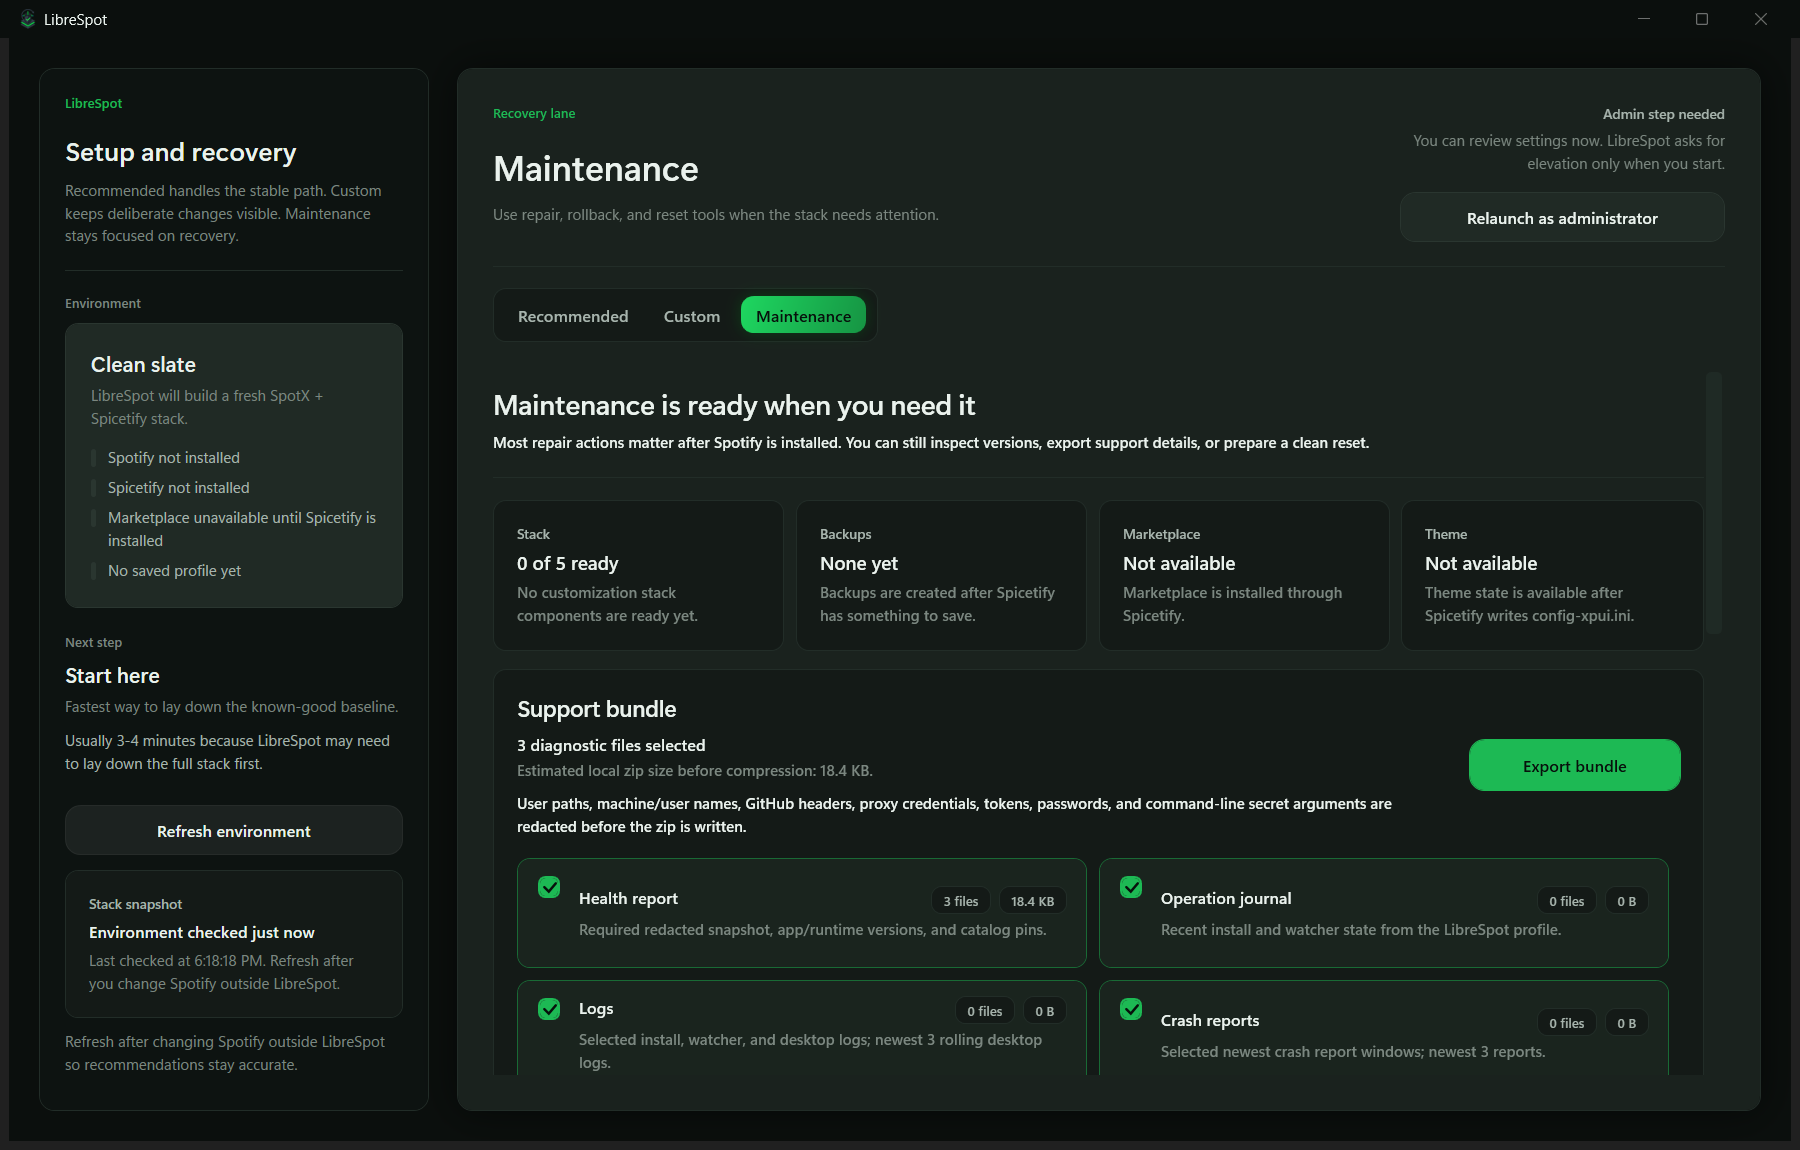
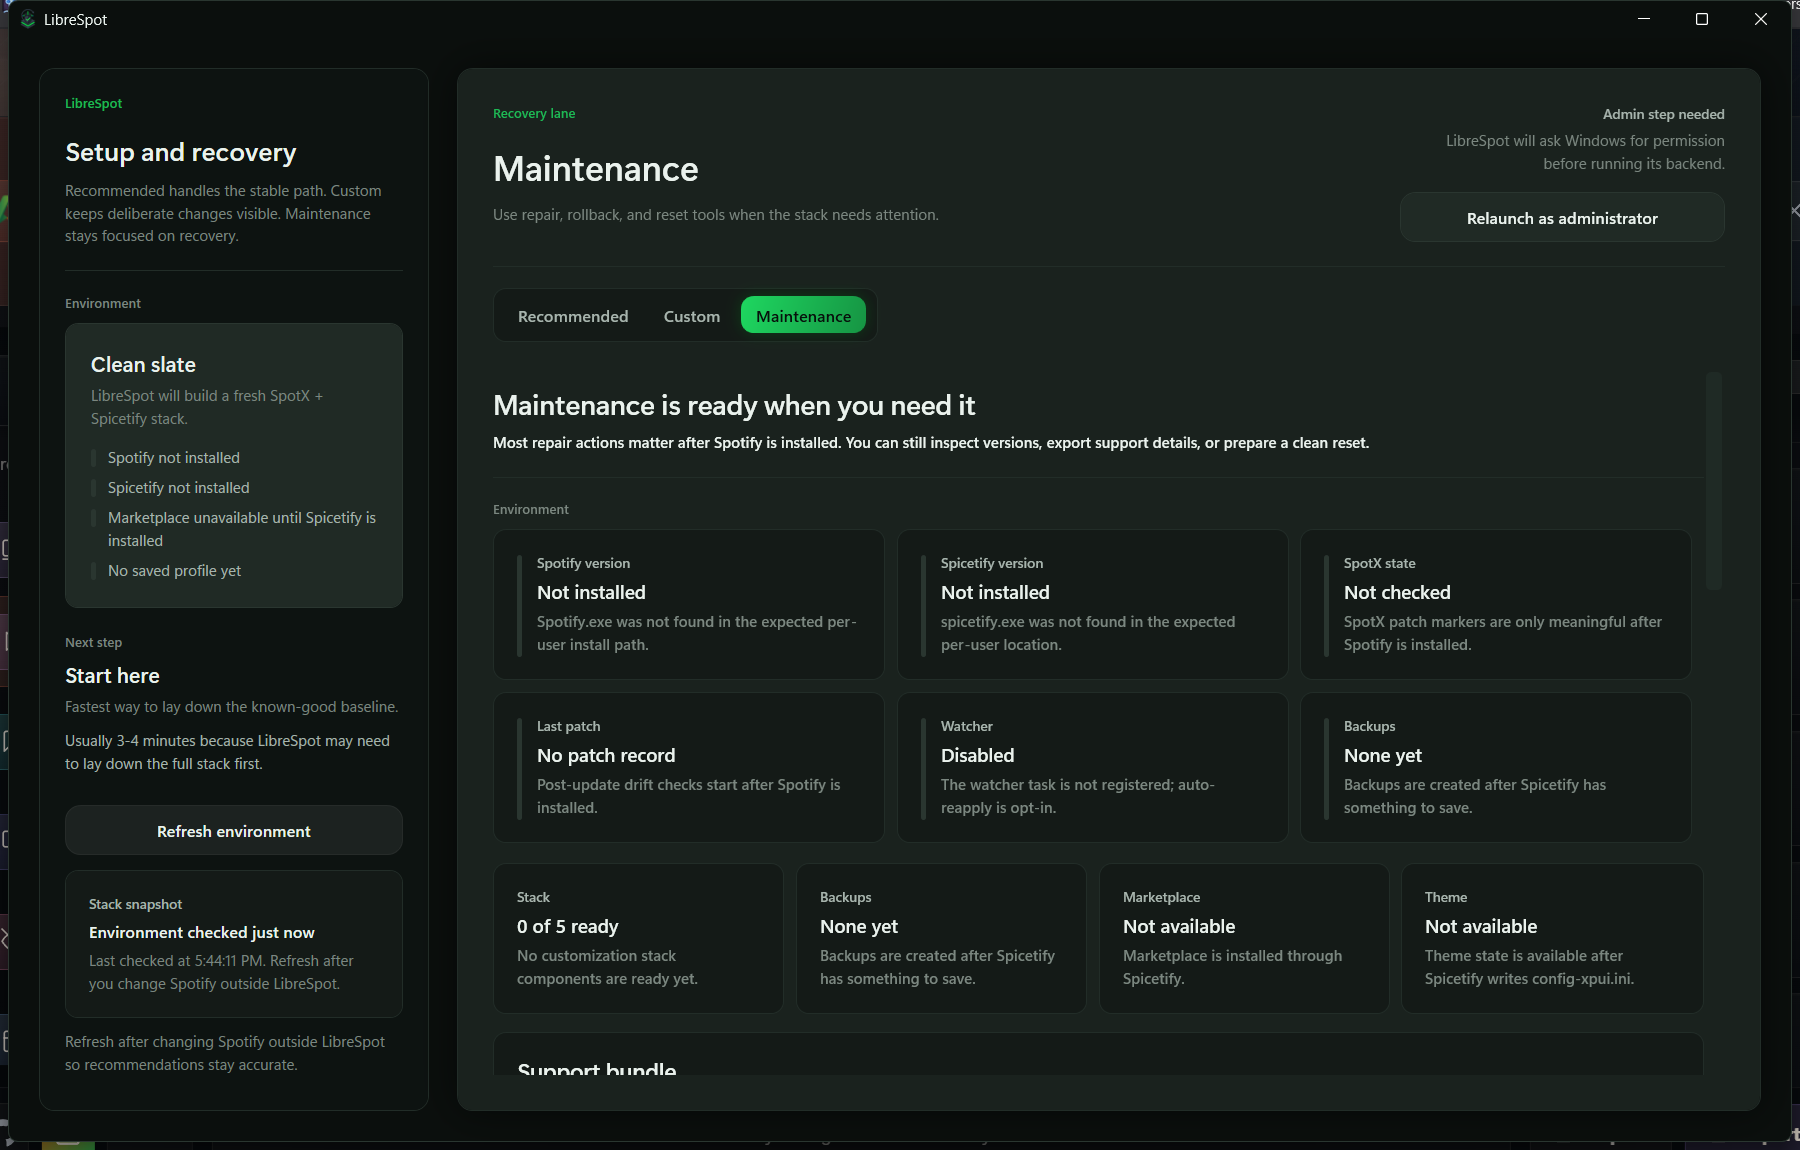
feat: add wpf status dashboard

diff --git a/src/LibreSpot.Desktop/MainWindow.xaml b/src/LibreSpot.Desktop/MainWindow.xaml
@@ -463,6 +463,67 @@
       </Border>
     </DataTemplate>
 
+    <DataTemplate DataType="{x:Type viewModels:StatusDashboardItemViewModel}" x:Key="StatusDashboardItemTemplate">
+      <Border Style="{StaticResource SubtleCardStyle}"
+              Margin="0,0,10,10"
+              AutomationProperties.Name="{Binding Label}"
+              AutomationProperties.HelpText="{Binding Detail}">
+        <Grid>
+          <Grid.ColumnDefinitions>
+            <ColumnDefinition Width="Auto" />
+            <ColumnDefinition Width="*" />
+          </Grid.ColumnDefinitions>
+          <Border Width="4"
+                  CornerRadius="2"
+                  Margin="0,2,12,0"
+                  VerticalAlignment="Stretch">
+            <Border.Style>
+              <Style TargetType="Border">
+                <Setter Property="Background" Value="{StaticResource StrokeBrush}" />
+                <Style.Triggers>
+                  <DataTrigger Binding="{Binding Tone}" Value="{x:Static models:HealthSeverity.Ready}">
+                    <Setter Property="Background" Value="{StaticResource AccentBrush}" />
+                  </DataTrigger>
+                  <DataTrigger Binding="{Binding Tone}" Value="{x:Static models:HealthSeverity.Warning}">
+                    <Setter Property="Background" Value="{StaticResource WarningBrush}" />
+                  </DataTrigger>
+                  <DataTrigger Binding="{Binding Tone}" Value="{x:Static models:HealthSeverity.Critical}">
+                    <Setter Property="Background" Value="{StaticResource DangerBrush}" />
+                  </DataTrigger>
+                </Style.Triggers>
+              </Style>
+            </Border.Style>
+          </Border>
+          <StackPanel Grid.Column="1">
+            <TextBlock Text="{Binding Label}"
+                       Style="{StaticResource LabelTextStyle}" />
+            <TextBlock Text="{Binding Value}"
+                       FontWeight="SemiBold"
+                       FontSize="15"
+                       Margin="0,6,0,0"
+                       TextWrapping="Wrap">
+              <TextBlock.Style>
+                <Style TargetType="TextBlock">
+                  <Setter Property="Foreground" Value="{StaticResource TextBrush}" />
+                  <Style.Triggers>
+                    <DataTrigger Binding="{Binding Tone}" Value="{x:Static models:HealthSeverity.Warning}">
+                      <Setter Property="Foreground" Value="{StaticResource WarningBrush}" />
+                    </DataTrigger>
+                    <DataTrigger Binding="{Binding Tone}" Value="{x:Static models:HealthSeverity.Critical}">
+                      <Setter Property="Foreground" Value="{StaticResource DangerBrush}" />
+                    </DataTrigger>
+                  </Style.Triggers>
+                </Style>
+              </TextBlock.Style>
+            </TextBlock>
+            <TextBlock Text="{Binding Detail}"
+                       Style="{StaticResource CaptionTextStyle}"
+                       Margin="0,6,0,0" />
+          </StackPanel>
+        </Grid>
+      </Border>
+    </DataTemplate>
+
     <!--
       Overlay card style: fade + subtle scale-in when the bound IsVisible flag
       transitions False→True. DataTrigger EnterActions run on every transition,
@@ -1574,6 +1635,20 @@
                   <Border Height="1"
                           Background="{StaticResource StrokeSoftBrush}"
                           Margin="0,18,0,18" />
+
+                  <TextBlock Text="{x:Static props:Strings.EnvironmentLabel}"
+                             Style="{StaticResource SectionEyebrowTextStyle}"
+                             Margin="0,0,0,10" />
+                  <ItemsControl ItemsSource="{Binding StatusDashboardItems}"
+                                ItemTemplate="{StaticResource StatusDashboardItemTemplate}"
+                                AutomationProperties.Name="{x:Static props:Strings.EnvironmentLabel}"
+                                Margin="0,0,0,6">
+                    <ItemsControl.ItemsPanel>
+                      <ItemsPanelTemplate>
+                        <UniformGrid Columns="3" />
+                      </ItemsPanelTemplate>
+                    </ItemsControl.ItemsPanel>
+                  </ItemsControl>
 
                   <UniformGrid Columns="4"
                                Margin="0,0,0,14">

diff --git a/src/LibreSpot.Desktop/ViewModels/MainViewModel.cs b/src/LibreSpot.Desktop/ViewModels/MainViewModel.cs
@@ -215,6 +215,22 @@ public sealed class SelectionInsightViewModel
     public string Detail { get; }
 }
 
+public sealed class StatusDashboardItemViewModel
+{
+    public StatusDashboardItemViewModel(string label, string value, string detail, string tone)
+    {
+        Label = label;
+        Value = string.IsNullOrWhiteSpace(value) ? Strings.DashboardUnknownValue : value;
+        Detail = detail;
+        Tone = tone;
+    }
+
+    public string Label { get; }
+    public string Value { get; }
+    public string Detail { get; }
+    public string Tone { get; }
+}
+
 public sealed class MainViewModel : ObservableObject, IDisposable
 {
     // Cap the live log so a very chatty backend run can't pin UI memory or make
@@ -445,6 +461,31 @@ public sealed class MainViewModel : ObservableObject, IDisposable
     public bool HasInfoHealthIssues => HealthReport.HasInfoIssues;
     public bool HasAnyHealthIssues => HealthReport.HasIssues;
     public string HealthIssueSummary => HealthReport.IssueSummary;
+
+    public IReadOnlyList<StatusDashboardItemViewModel> StatusDashboardItems =>
+    [
+        BuildDashboardItem(
+            Strings.DashboardSpotifyVersionLabel,
+            HealthComponent("spotify"),
+            component => FirstNonEmpty(component.DetectedVersion, component.Status)),
+        BuildDashboardItem(
+            Strings.DashboardSpicetifyVersionLabel,
+            HealthComponent("spicetify-cli"),
+            component => FirstNonEmpty(component.DetectedVersion, component.Status)),
+        BuildDashboardItem(
+            Strings.DashboardSpotXStateLabel,
+            HealthComponent("spotx"),
+            component => component.Status),
+        BuildLastPatchDashboardItem(),
+        BuildDashboardItem(
+            Strings.DashboardWatcherLabel,
+            HealthComponent("auto-reapply-watcher"),
+            component => component.Status),
+        BuildDashboardItem(
+            Strings.BackupsLabel,
+            HealthComponent("backups"),
+            component => component.Status)
+    ];
 
     public bool HasConfigurationRecoveryNotice =>
         _configurationLoadState == ConfigurationLoadState.RecoveredFromCorrupt;
@@ -1583,6 +1624,7 @@ public sealed class MainViewModel : ObservableObject, IDisposable
         RaisePropertyChanged(nameof(HasInfoHealthIssues));
         RaisePropertyChanged(nameof(HasAnyHealthIssues));
         RaisePropertyChanged(nameof(HealthIssueSummary));
+        RaisePropertyChanged(nameof(StatusDashboardItems));
         RaisePropertyChanged(nameof(MaintenanceReadinessValue));
         RaisePropertyChanged(nameof(MaintenanceReadinessDetail));
         RaisePropertyChanged(nameof(MaintenanceBackupValue));
@@ -1613,6 +1655,48 @@ public sealed class MainViewModel : ObservableObject, IDisposable
 
     private StackHealthComponent? HealthComponent(string id) =>
         HealthReport.Components.FirstOrDefault(component => string.Equals(component.Id, id, StringComparison.OrdinalIgnoreCase));
+
+    private StatusDashboardItemViewModel BuildDashboardItem(
+        string label,
+        StackHealthComponent? component,
+        Func<StackHealthComponent, string> valueFactory)
+    {
+        if (component is null)
+        {
+            return new StatusDashboardItemViewModel(
+                label,
+                Strings.DashboardUnknownValue,
+                Strings.DashboardSnapshotMissingDetail,
+                HealthSeverity.Info);
+        }
+
+        var detail = component.HasLastChanged
+            ? $"{component.Evidence} Last changed: {component.LastChangedDisplay}."
+            : component.Evidence;
+
+        return new StatusDashboardItemViewModel(
+            label,
+            valueFactory(component),
+            detail,
+            component.Severity);
+    }
+
+    private StatusDashboardItemViewModel BuildLastPatchDashboardItem()
+    {
+        var postUpdate = HealthComponent("post-spotify-update");
+        var spotx = HealthComponent("spotx");
+        var timestampSource = postUpdate?.HasLastChanged == true ? postUpdate : spotx;
+        var evidenceSource = postUpdate ?? spotx;
+
+        return new StatusDashboardItemViewModel(
+            Strings.DashboardLastPatchLabel,
+            timestampSource?.HasLastChanged == true ? timestampSource.LastChangedDisplay : Strings.DashboardNoPatchRecord,
+            evidenceSource?.Evidence ?? Strings.DashboardNoPatchRecordDetail,
+            evidenceSource?.Severity ?? HealthSeverity.Info);
+    }
+
+    private static string FirstNonEmpty(params string?[] values) =>
+        values.FirstOrDefault(value => !string.IsNullOrWhiteSpace(value)) ?? Strings.DashboardUnknownValue;
 
     private bool HasRecommendedAction(string action) =>
         HealthReport.Components.Any(component => component.RecommendedActionIds.Contains(action, StringComparer.Ordinal));

diff --git a/src/LibreSpot.Desktop/Properties/Strings.Designer.cs b/src/LibreSpot.Desktop/Properties/Strings.Designer.cs
@@ -647,6 +647,78 @@ namespace LibreSpot.Desktop.Properties {
             }
         }
         /// <summary>
+        ///   Status dashboard card label
+        /// </summary>
+        public static string DashboardSpotifyVersionLabel {
+            get {
+                return ResourceManager.GetString("DashboardSpotifyVersionLabel", resourceCulture);
+            }
+        }
+        /// <summary>
+        ///   Status dashboard card label
+        /// </summary>
+        public static string DashboardSpicetifyVersionLabel {
+            get {
+                return ResourceManager.GetString("DashboardSpicetifyVersionLabel", resourceCulture);
+            }
+        }
+        /// <summary>
+        ///   Status dashboard card label
+        /// </summary>
+        public static string DashboardSpotXStateLabel {
+            get {
+                return ResourceManager.GetString("DashboardSpotXStateLabel", resourceCulture);
+            }
+        }
+        /// <summary>
+        ///   Status dashboard card label
+        /// </summary>
+        public static string DashboardLastPatchLabel {
+            get {
+                return ResourceManager.GetString("DashboardLastPatchLabel", resourceCulture);
+            }
+        }
+        /// <summary>
+        ///   Status dashboard card label
+        /// </summary>
+        public static string DashboardWatcherLabel {
+            get {
+                return ResourceManager.GetString("DashboardWatcherLabel", resourceCulture);
+            }
+        }
+        /// <summary>
+        ///   Status dashboard fallback value
+        /// </summary>
+        public static string DashboardUnknownValue {
+            get {
+                return ResourceManager.GetString("DashboardUnknownValue", resourceCulture);
+            }
+        }
+        /// <summary>
+        ///   Status dashboard fallback detail
+        /// </summary>
+        public static string DashboardSnapshotMissingDetail {
+            get {
+                return ResourceManager.GetString("DashboardSnapshotMissingDetail", resourceCulture);
+            }
+        }
+        /// <summary>
+        ///   Status dashboard last patch fallback value
+        /// </summary>
+        public static string DashboardNoPatchRecord {
+            get {
+                return ResourceManager.GetString("DashboardNoPatchRecord", resourceCulture);
+            }
+        }
+        /// <summary>
+        ///   Status dashboard last patch fallback detail
+        /// </summary>
+        public static string DashboardNoPatchRecordDetail {
+            get {
+                return ResourceManager.GetString("DashboardNoPatchRecordDetail", resourceCulture);
+            }
+        }
+        /// <summary>
         ///   Sidebar warning count label
         /// </summary>
         public static string SeverityWarningsLabel {

diff --git a/tests/LibreSpot.Desktop.Tests/MainViewModelMaintenanceTests.cs b/tests/LibreSpot.Desktop.Tests/MainViewModelMaintenanceTests.cs
@@ -56,6 +56,29 @@ public sealed class MainViewModelMaintenanceTests
         });
 
     [Fact]
+    public Task StatusDashboard_ShowsLaunchSnapshotFields() =>
+        RunStaAsync(async () =>
+        {
+            using var fixture = new SnapshotFixture();
+            fixture.WriteSpotify(withSpotXMarkers: true);
+            fixture.WriteSpicetifyConfig("custom_apps = marketplace\r\ncurrent_theme = SpicetifyDefault");
+            fixture.WriteMarketplaceFiles();
+            fixture.WriteBackup();
+
+            using var viewModel = await fixture.CreateInitializedViewModelAsync(
+                spotifyVersion: "1.2.92.647",
+                spicetifyVersion: "2.43.2");
+
+            Assert.Equal(6, viewModel.StatusDashboardItems.Count);
+            Assert.Contains(viewModel.StatusDashboardItems, item => item.Label == "Spotify version" && item.Value == "1.2.92.647");
+            Assert.Contains(viewModel.StatusDashboardItems, item => item.Label == "Spicetify version" && item.Value == "2.43.2");
+            Assert.Contains(viewModel.StatusDashboardItems, item => item.Label == "SpotX state" && item.Value == "Verified");
+            Assert.Contains(viewModel.StatusDashboardItems, item => item.Label == "Last patch" && item.Value != "No patch record");
+            Assert.Contains(viewModel.StatusDashboardItems, item => item.Label == "Watcher" && item.Value == "Disabled");
+            Assert.Contains(viewModel.StatusDashboardItems, item => item.Label == "Backups" && item.Value == "1 backup");
+        });
+
+    [Fact]
     public Task MaintenanceActions_ShowRepairMarketplaceWhenFilesAreMissing() =>
         RunStaAsync(async () =>
         {
@@ -201,7 +224,9 @@ public sealed class MainViewModelMaintenanceTests
         private string RollingLogDirectory { get; }
         private string CrashDirectory { get; }
 
-        public async Task<MainViewModel> CreateInitializedViewModelAsync()
+        public async Task<MainViewModel> CreateInitializedViewModelAsync(
+            string? spotifyVersion = null,
+            string? spicetifyVersion = null)
         {
             var viewModel = new MainViewModel(
                 new ConfigurationService(ConfigDirectory),
@@ -213,7 +238,9 @@ public sealed class MainViewModelMaintenanceTests
                     spicetifyConfigDirectory: SpicetifyConfigDirectory,
                     backupDirectory: BackupDirectory,
                     rollingLogDirectory: RollingLogDirectory,
-                    crashDirectory: CrashDirectory),
+                    crashDirectory: CrashDirectory,
+                    spotifyVersionProbe: () => spotifyVersion,
+                    spicetifyVersionProbe: () => spicetifyVersion),
                 new SupportBundleService(ConfigDirectory, RollingLogDirectory, CrashDirectory));
 
             await viewModel.InitializeAsync();

diff --git a/CHANGELOG.md b/CHANGELOG.md
@@ -5,6 +5,9 @@ All notable changes to LibreSpot will be documented in this file.
 ## [Unreleased]
 
 ### Changed
+- WPF Maintenance now exposes a six-card status dashboard for Spotify version,
+  Spicetify version, SpotX patch state, last patch timestamp, watcher status,
+  and backup count, all sourced from the existing environment snapshot.
 - WPF shell backend completions now surface a WPF-UI snackbar notification
   with success, warning, or error tone while keeping the existing activity log
   panel available for full review.

diff --git a/README.md b/README.md
@@ -63,7 +63,7 @@ This path does not verify the release checksum before execution, cannot self-ele
 
 **Premium UI overhaul.** Win11 Mica backdrop (with graceful fallback on Windows 10), a left sidebar navigation rail with Lucide icons replacing the old top tab bar, semantic design tokens, hover-lift micro-interactions, and a shimmering install progress bar. Compact density pass means every panel fits a 1080-px screen without scrolling. Same install behavior, polished chrome.
 
-The v4 desktop preview continues that polish with a sharper 6-12 px radius system, quieter scrollbars, cleaner first-run guidance, readable Custom setting cards, forced dark native window chrome, completion notifications, and calmer activity/support-bundle feedback for assistive technology.
+The v4 desktop preview continues that polish with a sharper 6-12 px radius system, quieter scrollbars, cleaner first-run guidance, readable Custom setting cards, forced dark native window chrome, completion notifications, a compact status dashboard, and calmer activity/support-bundle feedback for assistive technology.
 
 ---
 